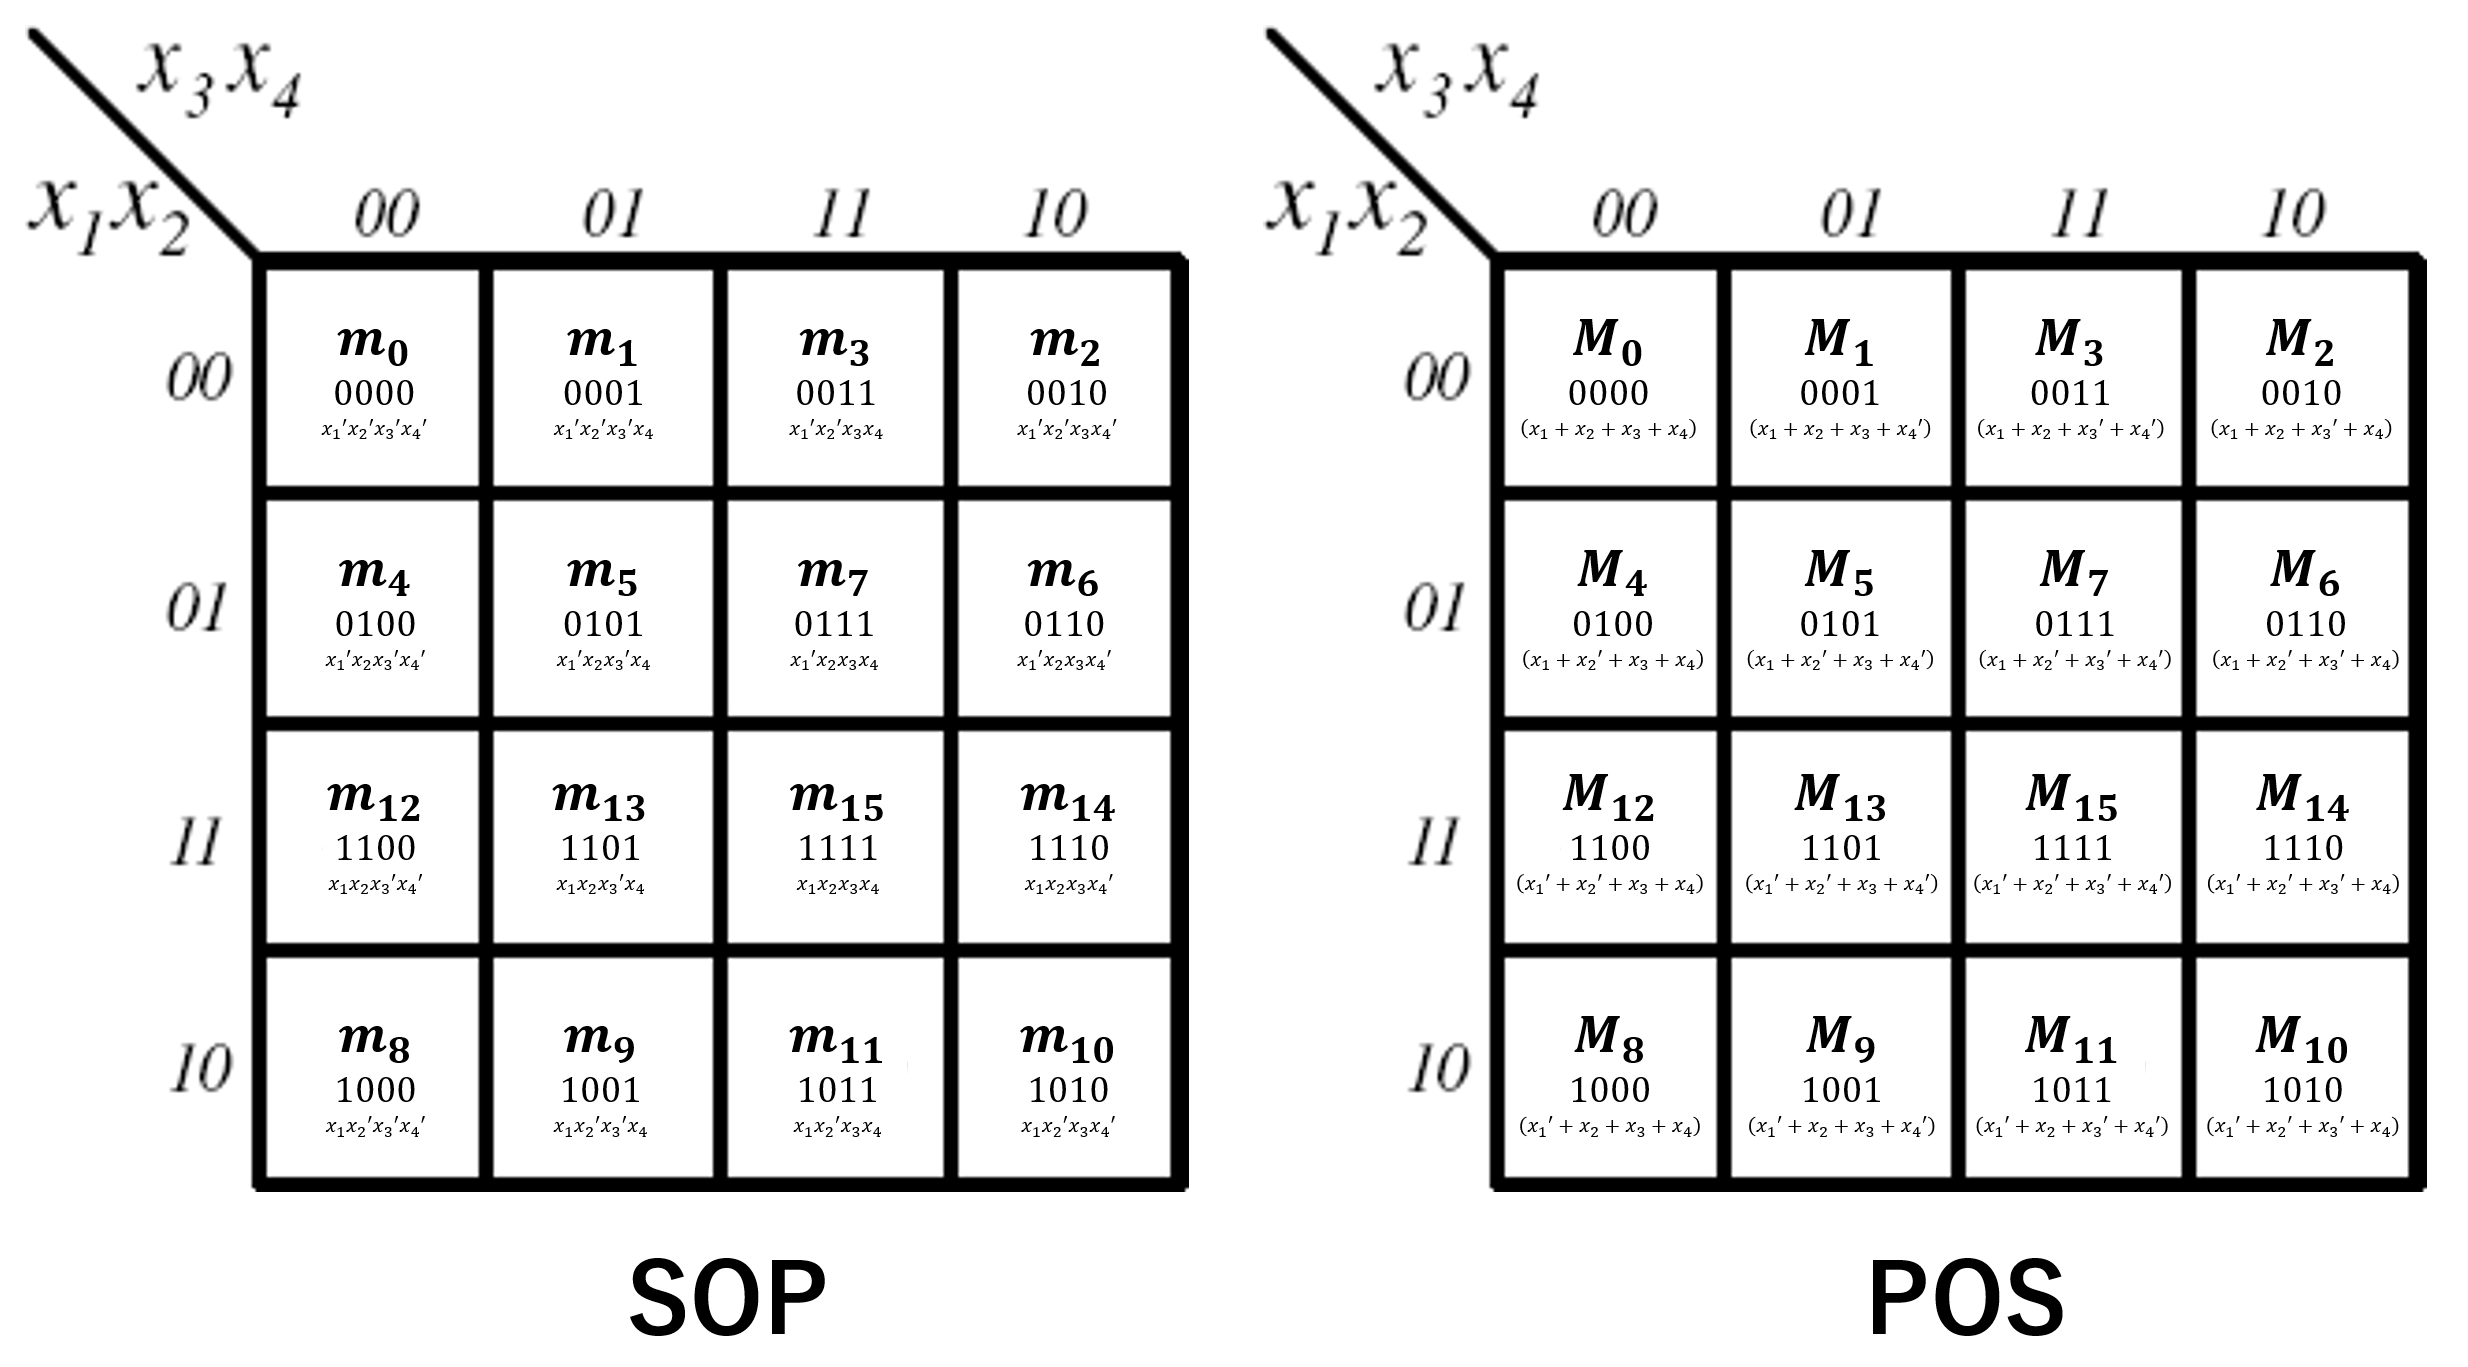
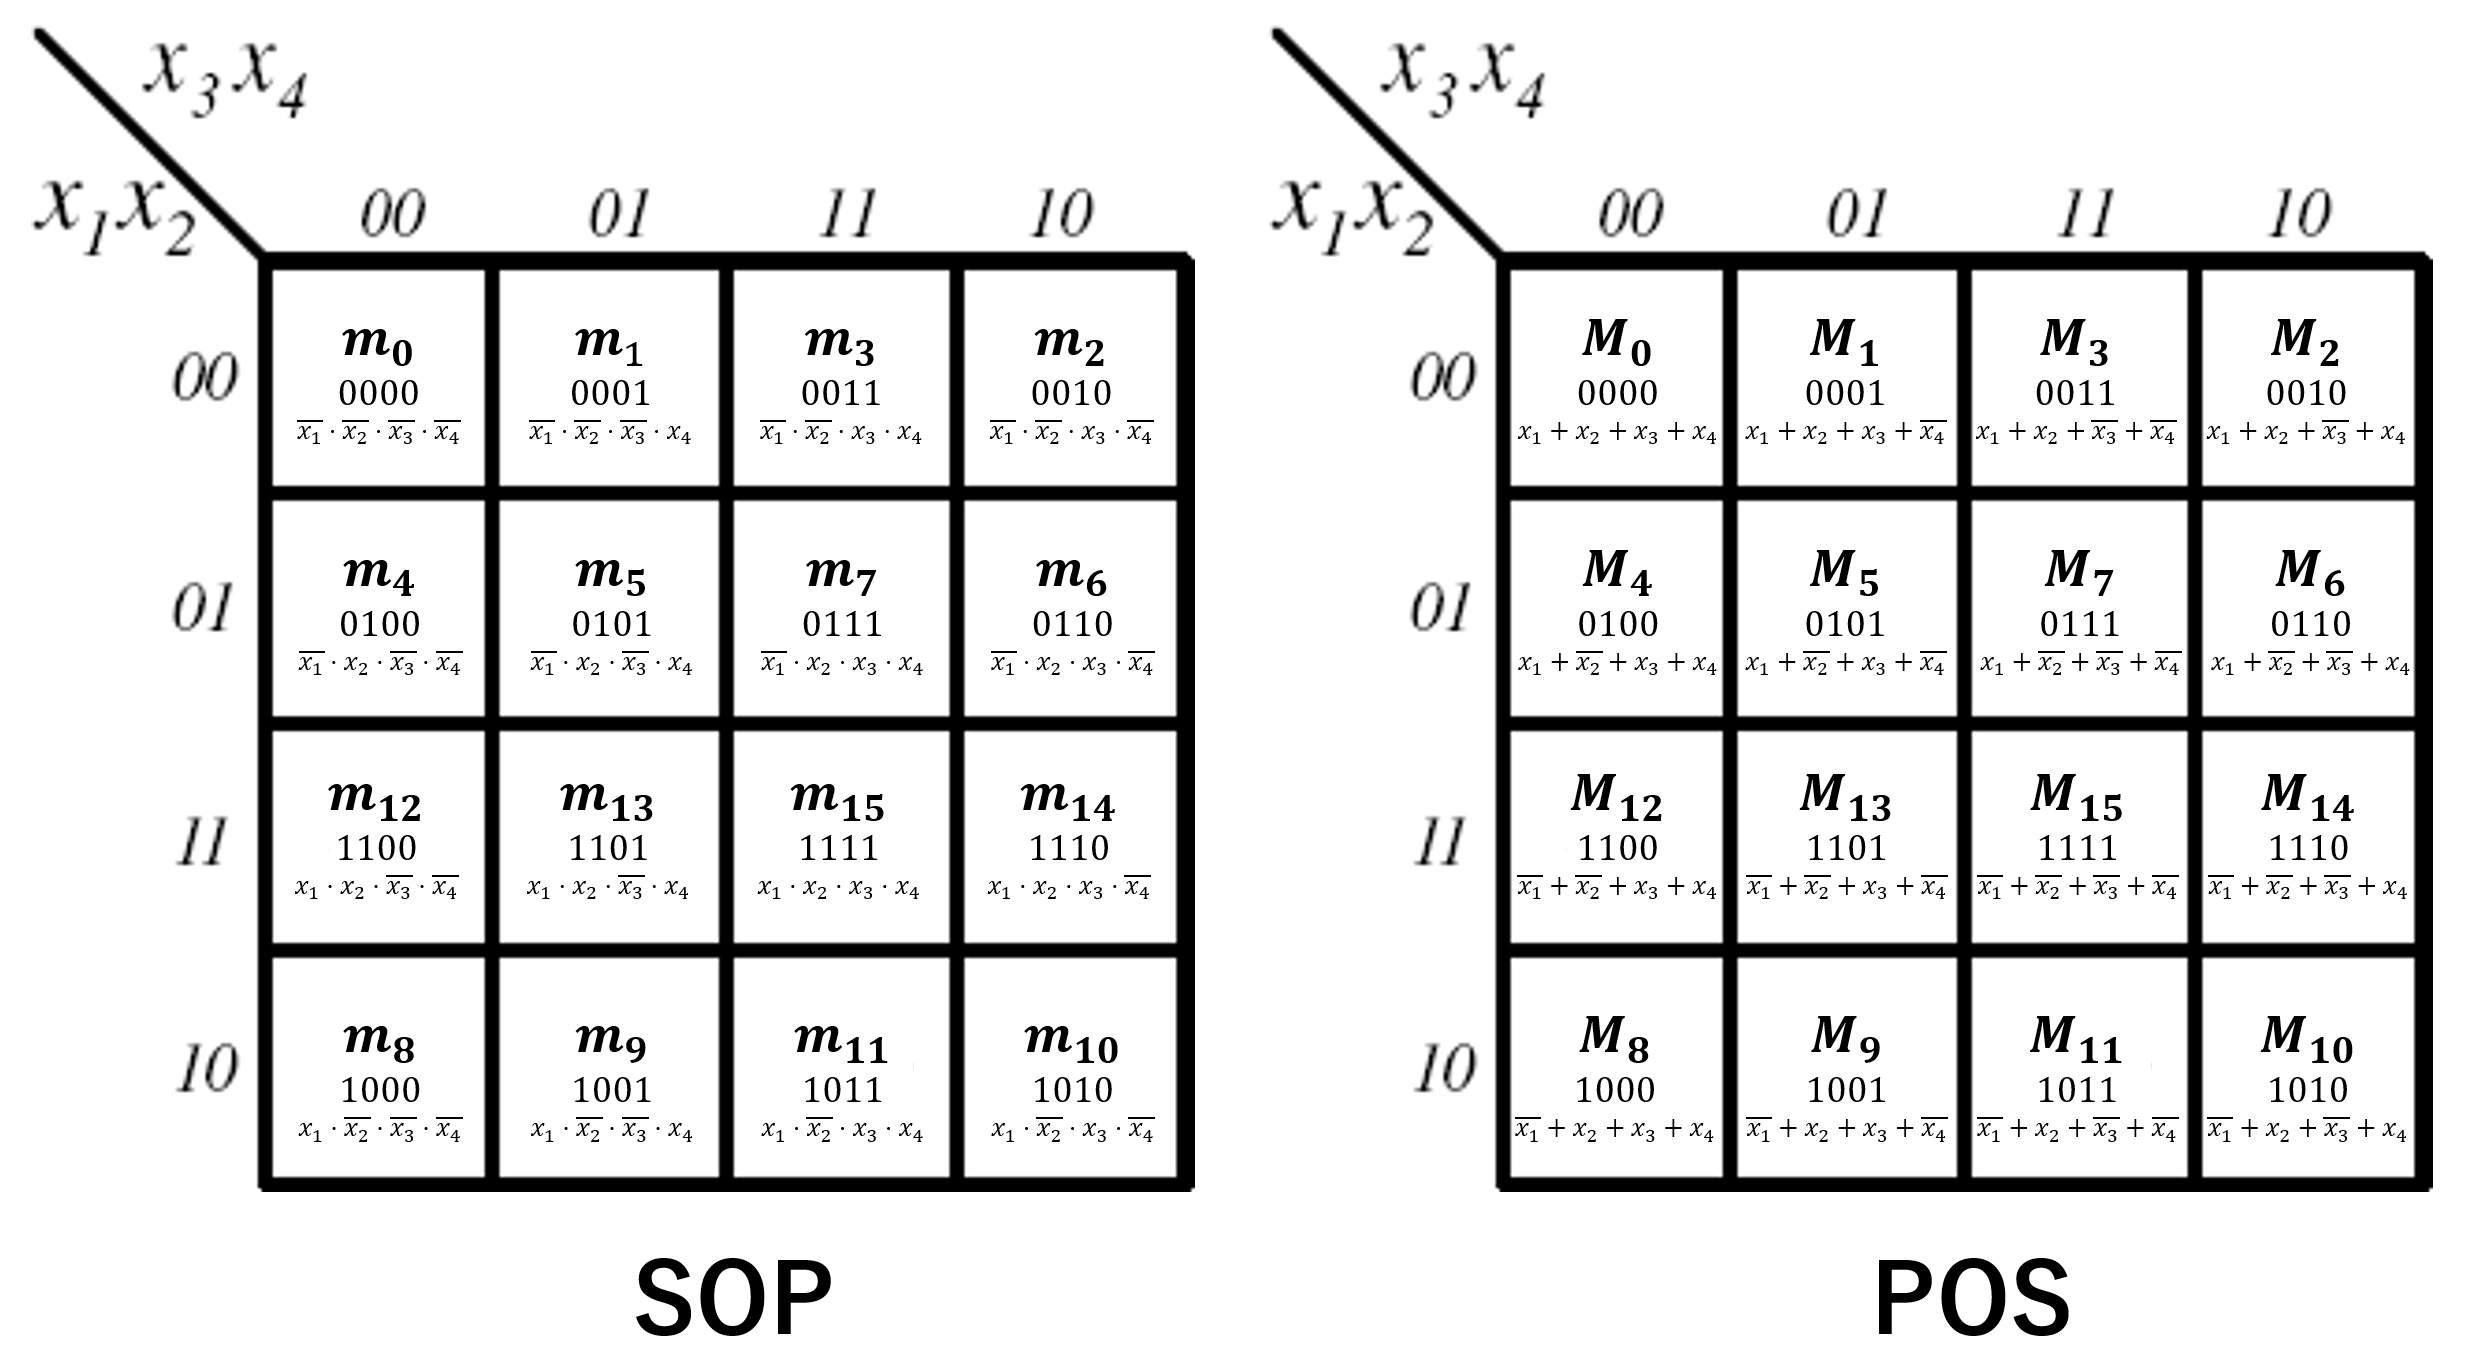
kmap

diff --git a/stem/physics-and-chemistry/electricity/electronic-circuit/digital-electronics-and-logic-design/minimization-of-boolean-expressions.md b/stem/physics-and-chemistry/electricity/electronic-circuit/digital-electronics-and-logic-design/minimization-of-boolean-expressions.md
@@ -5,11 +5,11 @@
     - #### Sum Term：made of literals added (ORing) together {#sum-term}
 - ### Example (3 variables)
     - #### Example (SOP)
-        - SOP：$F=A'B + BC + AC$
-        - Product Term：$A'B,~BC,~AC$
+        - SOP：$F=\overline{A}B + BC + AC$
+        - Product Term：$\overline{A}B,~BC,~AC$
     - #### Example (POS)
-        - POS：$F=\left(A'+B\right) \cdot \left(B+C\right) \cdot \left(A+C\right)$
-        - Sum Term：$\left(A'+B\right),~\left(B+C\right),~\left(A+C\right)$
+        - POS：$F=\left(\overline{A}+B\right) \cdot \left(B+C\right) \cdot \left(A+C\right)$
+        - Sum Term：$\left(\overline{A}+B\right),~\left(B+C\right),~\left(A+C\right)$
 
 # Canonical Normal Form
 - ### Variables in the Boolean Function：$x_1 ,~\cdots,~ x_n$ {#variables-in-the-boolean-function}
@@ -28,7 +28,7 @@
         |Literals|$\text{value}_m\left(x_j\right)$|$\text{value}_M\left(x_j\right)$|
         |:---:|:---:|:---:|
         |$x_j$|$1$|$0$|
-        |${x_j}'$|$0$|$1$|
+        |$\overline{x_j}$|$0$|$1$|
     - #### Minterm：$m_i$
         - #### Minterm Index：$i=\sum\limits_{j=1}^n{2^{n-j}\text{value}_m\left(x_j\right)}$
     - #### Maxterm：$M_i$
@@ -38,13 +38,13 @@
         - Canonical POS：$F=\prod{M\left(i_1,~\cdots,~i_k\right)} = M_{i_1} \cdots M_{i_k}$
 - ### Example (3 variables)
     - #### Example (Canonical SOP)
-        - Minterm：$m_5=AB'C$
+        - Minterm：$m_5=A\overline{B}C$
             - Minterm Index：$5_{10}=101_2$
-        - Canonical SOP：$F=\sum{m\left(3,~5,~7\right)} = m_3+m_5+m_7 = A'BC + AB'C + ABC$
+        - Canonical SOP：$F=\sum{m\left(3,~5,~7\right)} = m_3+m_5+m_7 = \overline{A}BC + A\overline{B}C + ABC$
     - #### Example (Canonical POS)
-        - Maxterm：$M_5 = \left(A'+B+C'\right)$
+        - Maxterm：$M_5 = \left(\overline{A}+B+\overline{C}\right)$
             - Maxterm Index：$5_{10}=101_2$
-        - Canonical POS：$F=\prod{M\left(3,~5,~7\right)} = M_3 \cdot M_5 \cdot M_7 = \left(A+B'+C'\right) \cdot \left(A'+B+C'\right) \cdot \left(A'+B'+C'\right)$
+        - Canonical POS：$F=\prod{M\left(3,~5,~7\right)} = M_3 \cdot M_5 \cdot M_7 = \left(A+\overline{B}+\overline{C}\right) \cdot \left(\overline{A}+B+\overline{C}\right) \cdot \left(\overline{A}+\overline{B}+\overline{C}\right)$
 
 # Karnaugh map (K-map)
 - ### Construction
